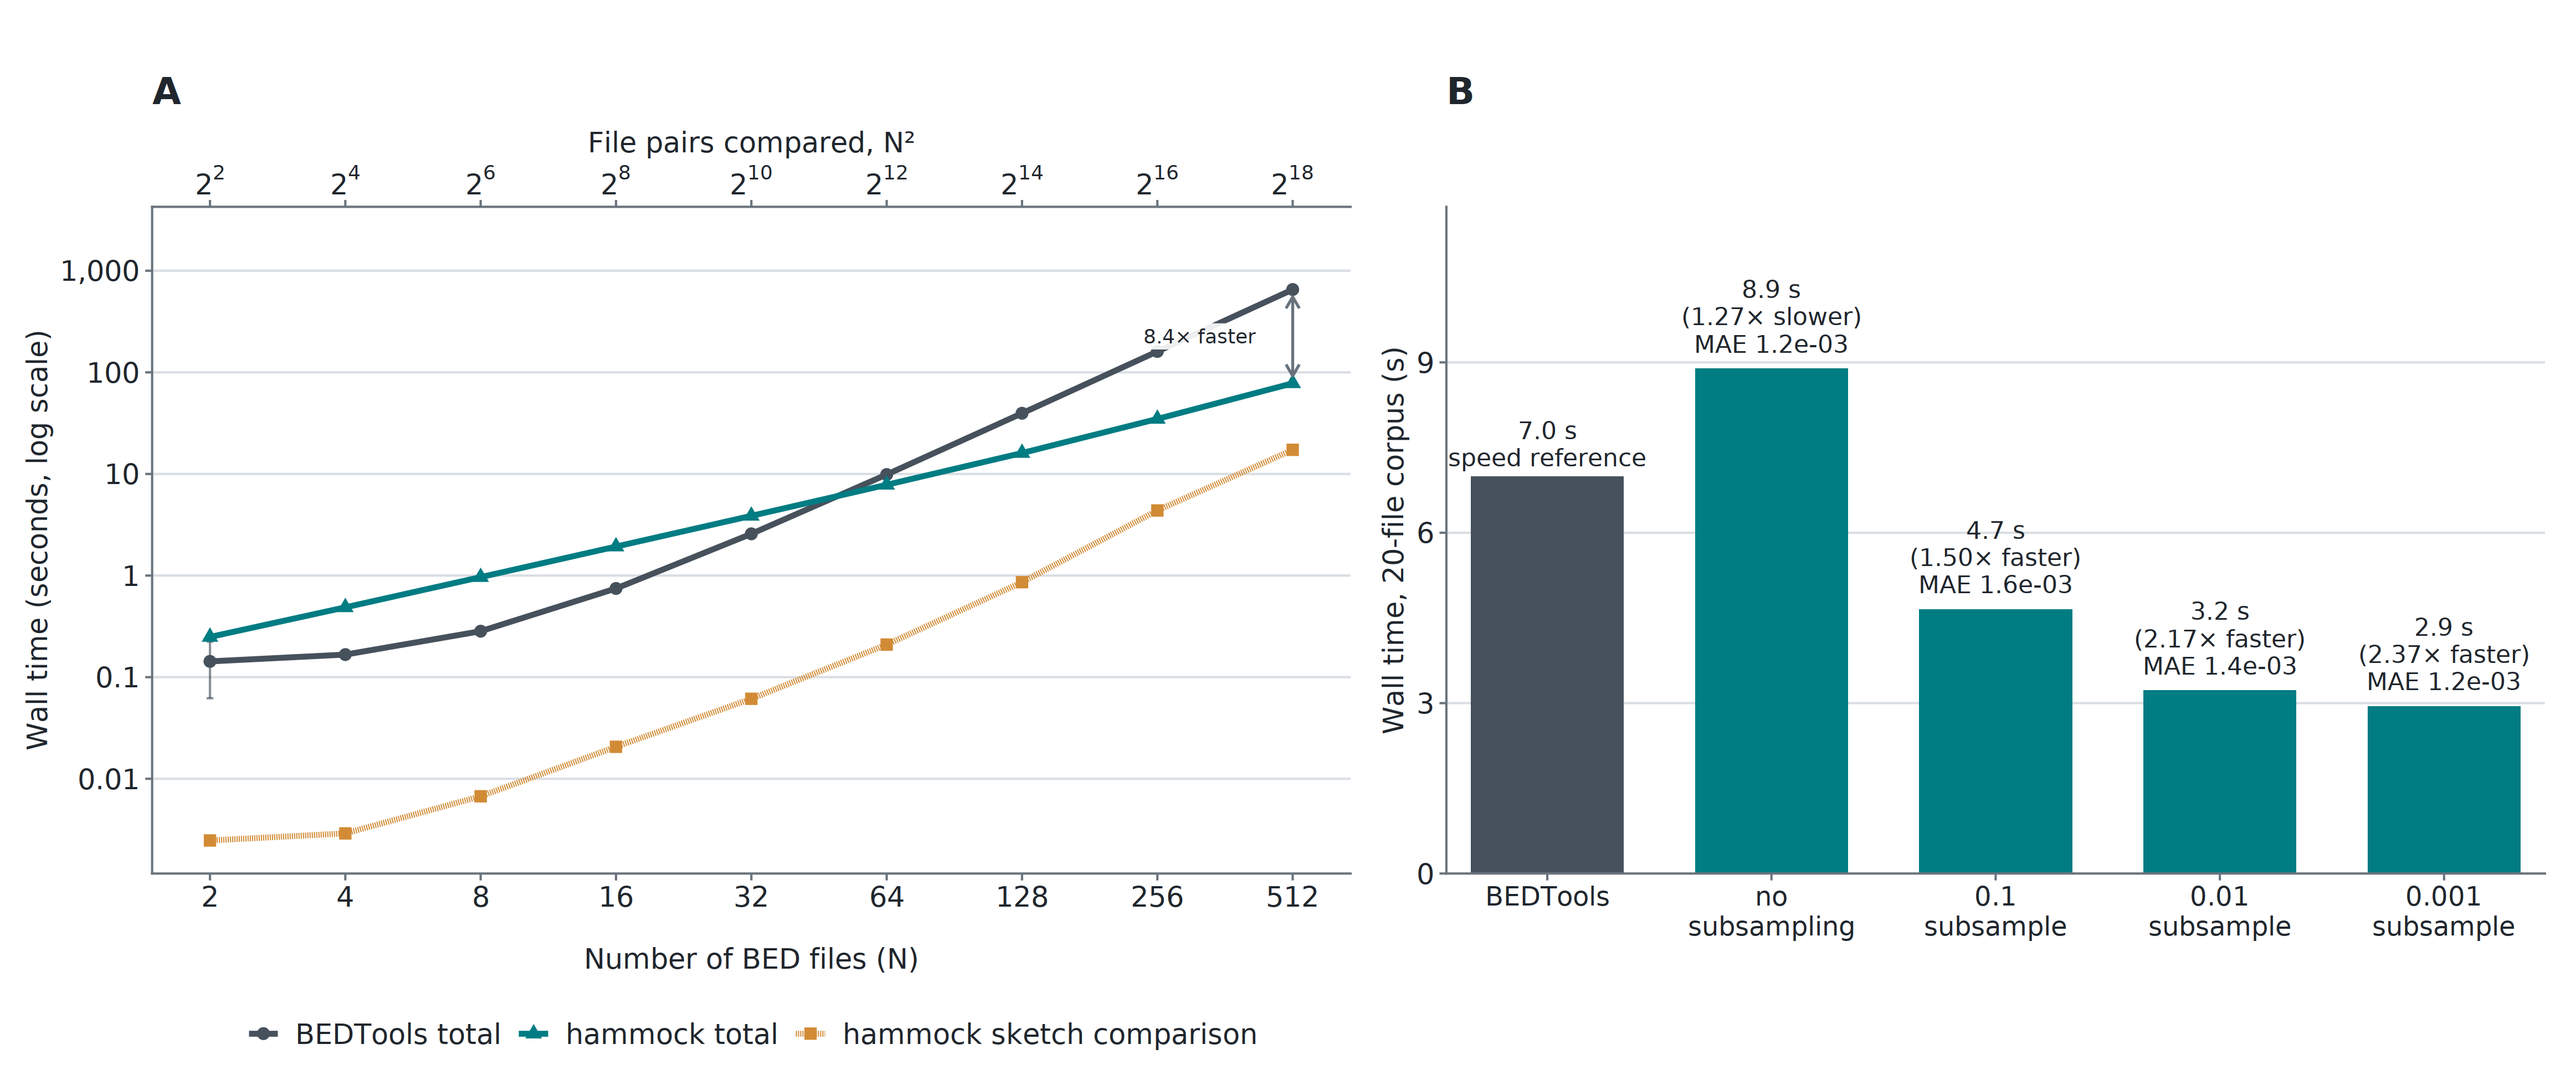
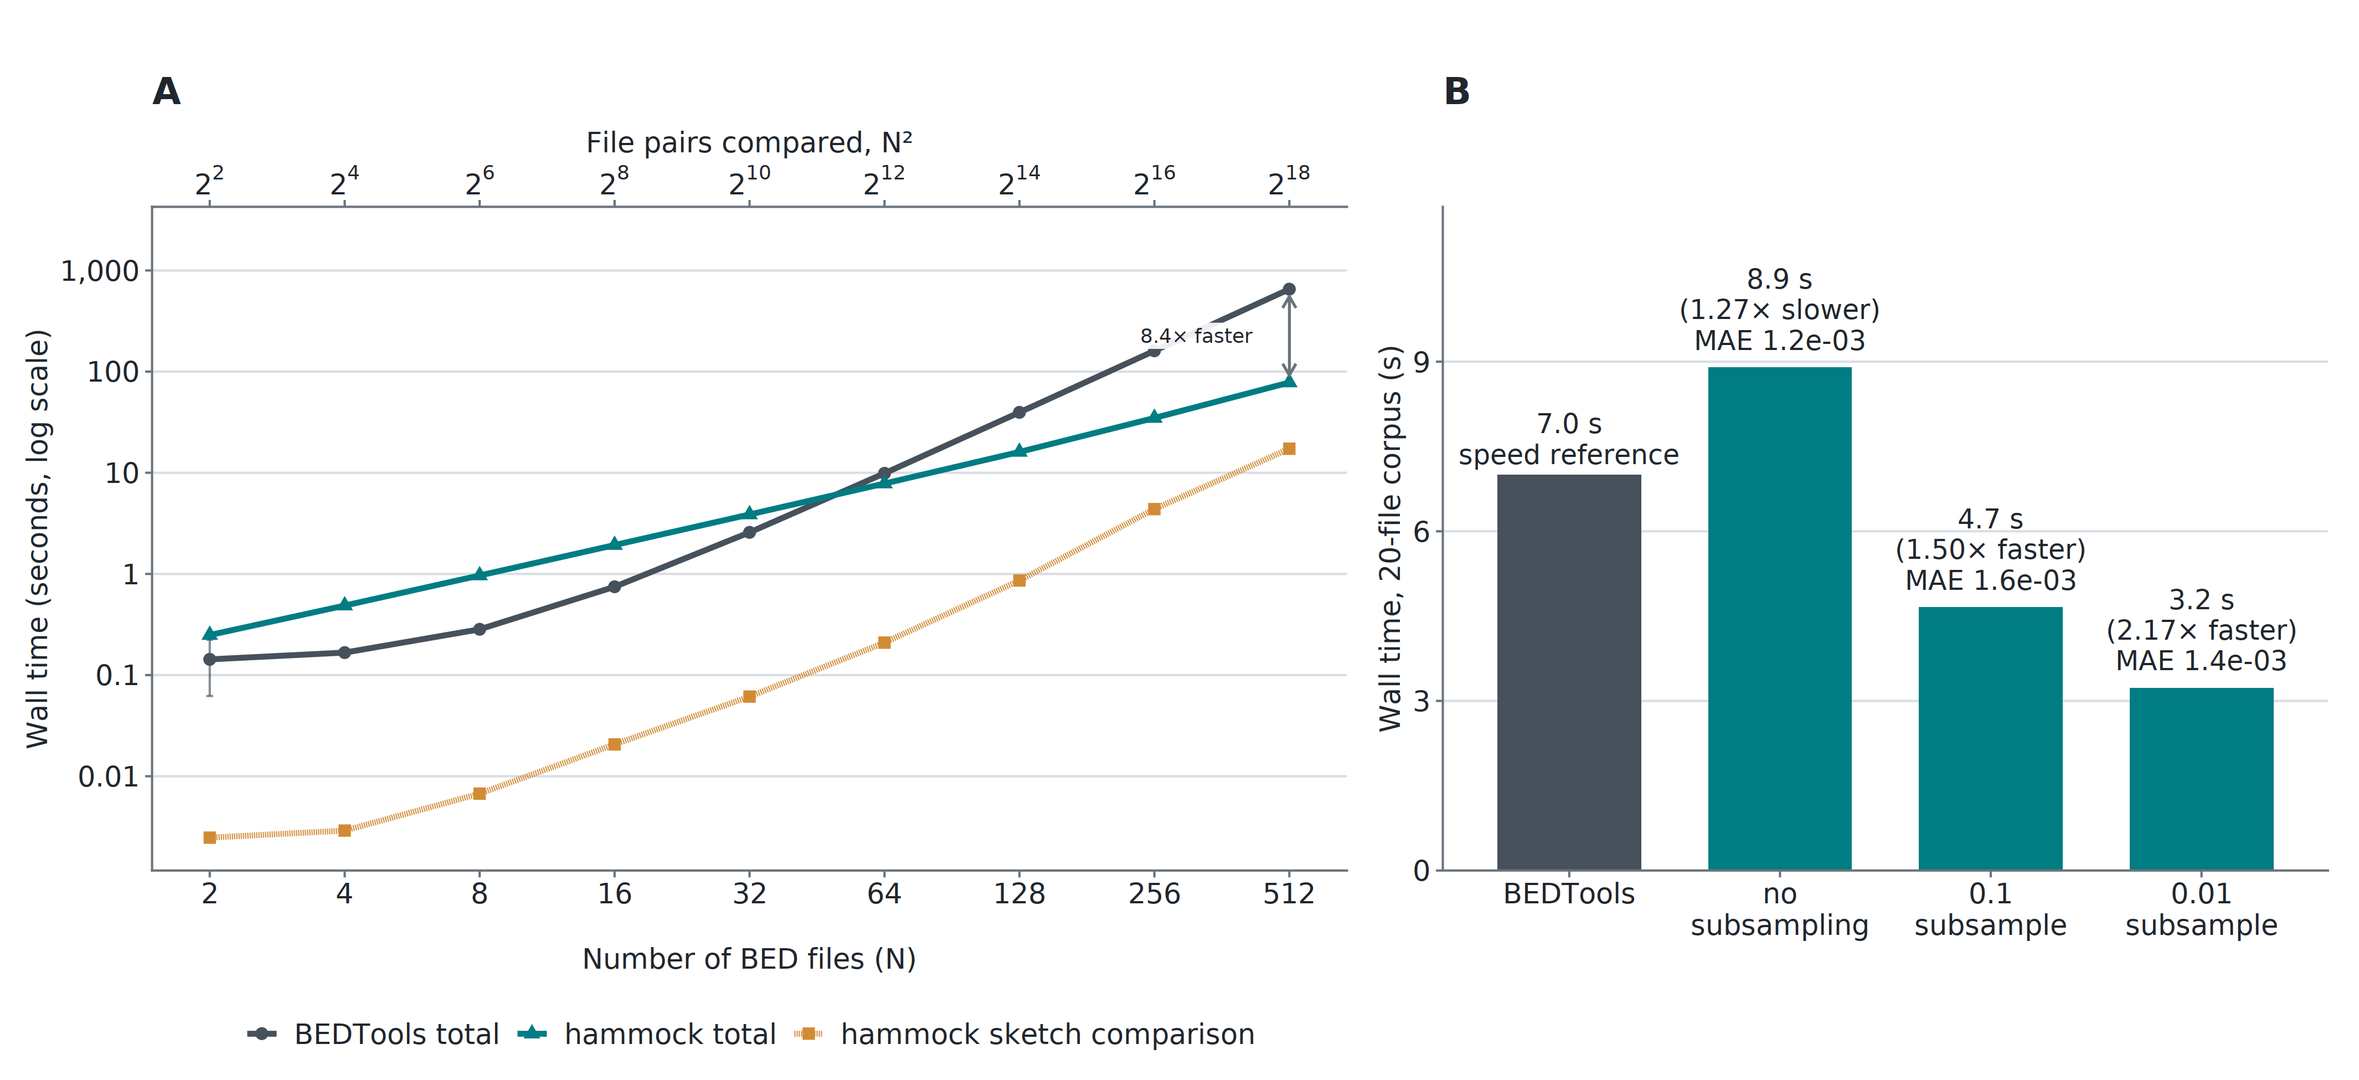
Restore original Figure 3B layout

diff --git a/experiments/mixed_stride_v2_figure3_reproduction/prepare_inputs.py b/experiments/mixed_stride_v2_figure3_reproduction/prepare_inputs.py
@@ -68,7 +68,7 @@ def summarize_panel_b(hammock_csv: Path, truth_path: Path,
         writer = csv.DictWriter(handle, fieldnames=fields, lineterminator="\n")
         writer.writeheader()
         writer.writerows(row for row in output_rows
-                         if row["subB"] in {1.0, 0.1, 0.01, 0.001})
+                         if row["subB"] in {1.0, 0.1, 0.01})
 
 
 def main() -> int:

diff --git a/experiments/mixed_stride_v2_figure3_reproduction/README.md b/experiments/mixed_stride_v2_figure3_reproduction/README.md
@@ -37,9 +37,9 @@ integral, so this branch's v2 default delegates to the legacy grid. The 0.3,
 
 All generated files land under `results/`, `logs/`, and `figures/` here. The
 finalizer renders `pairwise_scaling_reproduced.png` with the paper's original
-three Panel B rates plus subB = 0.001, and
-`pairwise_scaling_reproduced_expanded.png` with all nine rates. Panel A is
-identical in both figures and does not use subB.
+three Panel B rates and original panel proportions. The supplementary
+`pairwise_scaling_reproduced_expanded.png` retains all nine rates, including
+subB = 0.001. Panel A is identical in both figures and does not use subB.
 
 ## Completed run
 
